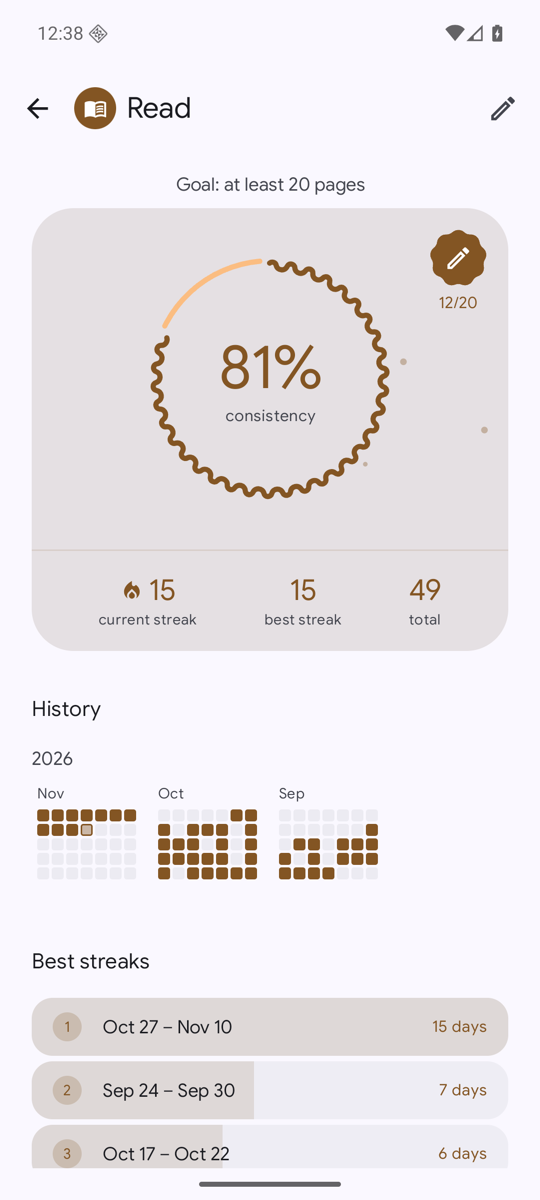
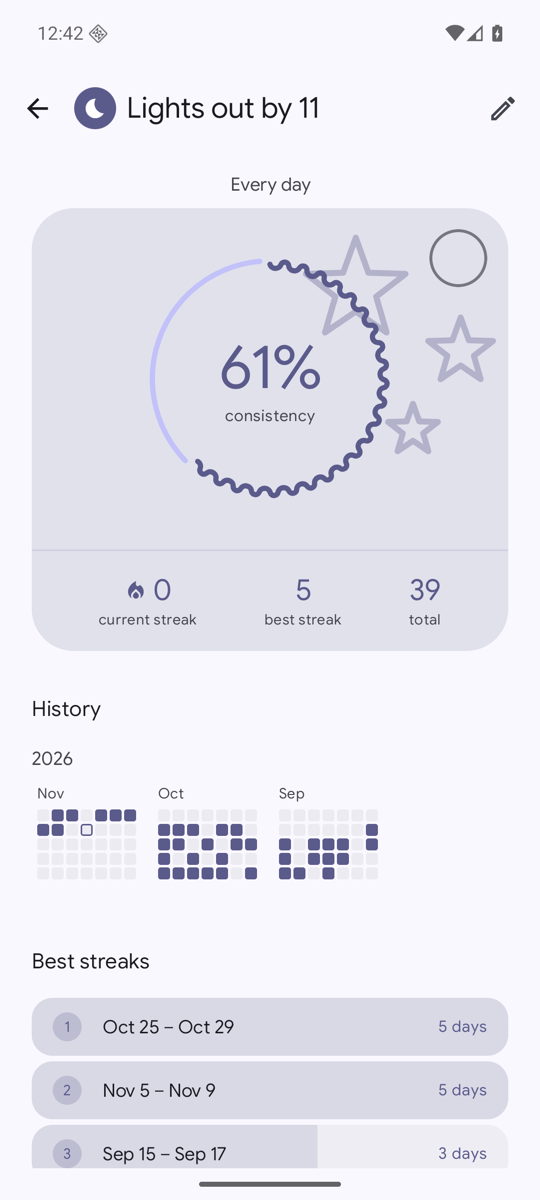
Use Lights out by 11 for the README detail screenshot

diff --git a/README.md b/README.md
@@ -11,7 +11,7 @@ Everything stays on your phone. Nines has no account, no ads, no analytics and n
       <sub><b>Today</b><br>Streaks and progress at a glance</sub>
     </td>
     <td align="center" width="33%">
-      <img src="docs/screenshots/detail.png" alt="The Read habit's detail screen with consistency, streaks and a monthly history grid" width="250"><br>
+      <img src="docs/screenshots/detail.png" alt="The Lights out by 11 habit's detail screen with consistency, streaks and a monthly history grid" width="250"><br>
       <sub><b>Habit detail</b><br>Consistency, streaks and history</sub>
     </td>
     <td align="center" width="33%">
